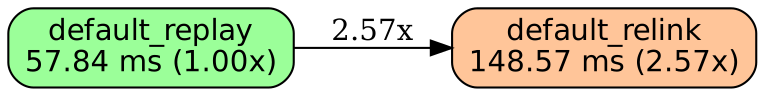
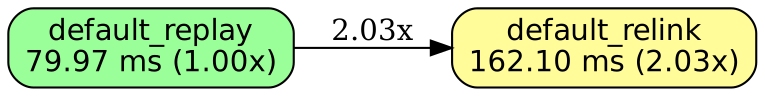
bench: leave the link dev 97 bound row out until a run reads it

diff --git a/mock/benches/support/build-call/src/measured.rs b/mock/benches/support/build-call/src/measured.rs
@@ -23,16 +23,19 @@ pub const fn disk_key(incremental: bool) -> u16 {
 
 /// The first timed call measured at a cell, in whole seconds rounded up, the
 /// slower of the bench's two arms.
-pub const FIRST_CALL_S: [Row; 7] = [
+pub const FIRST_CALL_S: [Row; 6] = [
     // build-static, run 20261116T063249Z-f04daa0a-dirty, first warm pass
     (call_key(0, 0), 25, 17),
     (call_key(1, 0), 25, 6),
     (call_key(2, 0), 25, 6),
     (call_key(3, 0), 25, 15),
     // link-static, run 20261116T083526Z-b2bbf4ba, first warm pass: the
-    // relink, 0.157 s at dev 25, 0.478 s at dev 97, 0.138 s at release 25
+    // relink, 0.157 s at dev 25 and 0.138 s at release 25. The row at dev 97
+    // is left out until a run reads it: with it the probe of the harness gave
+    // the cell 30 s, which the untimed build of 97 crates in the first call
+    // exceeds (ticket
+    // `the_bench_harness_probe_counts_the_untimed_setup_of_a_build`).
     (call_key(4, 0), 25, 1),
-    (call_key(4, 0), 97, 1),
     (call_key(4, 1), 25, 1),
 ];
 

diff --git a/docs/BENCHES.md b/docs/BENCHES.md
@@ -2,7 +2,7 @@
   AUTO-GENERATED: DO NOT EDIT DIRECTLY
 
   Generated by: mockspace (mock)
-  Generated at: 2026-11-16T08:49:41Z
+  Generated at: 2026-11-19T14:01:30Z
   Source: mock/
   To regenerate: cargo mock
 -->
@@ -2132,12 +2132,12 @@ Run `20261114T211314Z-266650fb-dirty`.
 
 ## link-static/dev_n25 on linux-x86_64-c4-container-intel
 
-Run `20261116T083526Z-b2bbf4ba`.
+Run `20261119T134226Z-07a9e9a3`.
 
 | variant | median | vs best |
 |---|---|---|
-| default_replay | 57.84 ms | 1.00x |
-| default_relink | 148.57 ms | 2.57x |
+| default_replay | 79.97 ms | 1.00x |
+| default_relink | 162.10 ms | 2.03x |
 
 ![link-static/dev_n25 on linux-x86_64-c4-container-intel](BENCHES.link-static.dev_n25.linux-x86_64-c4-container-intel.png)
 
@@ -2154,12 +2154,12 @@ Run `20261116T083526Z-b2bbf4ba`.
 
 ## link-static/release_n25 on linux-x86_64-c4-container-intel
 
-Run `20261116T083526Z-b2bbf4ba`.
+Run `20261119T134226Z-07a9e9a3`.
 
 | variant | median | vs best |
 |---|---|---|
-| default_replay | 62.37 ms | 1.00x |
-| default_relink | 137.90 ms | 2.21x |
+| default_replay | 67.19 ms | 1.00x |
+| default_relink | 171.70 ms | 2.56x |
 
 ![link-static/release_n25 on linux-x86_64-c4-container-intel](BENCHES.link-static.release_n25.linux-x86_64-c4-container-intel.png)
 
